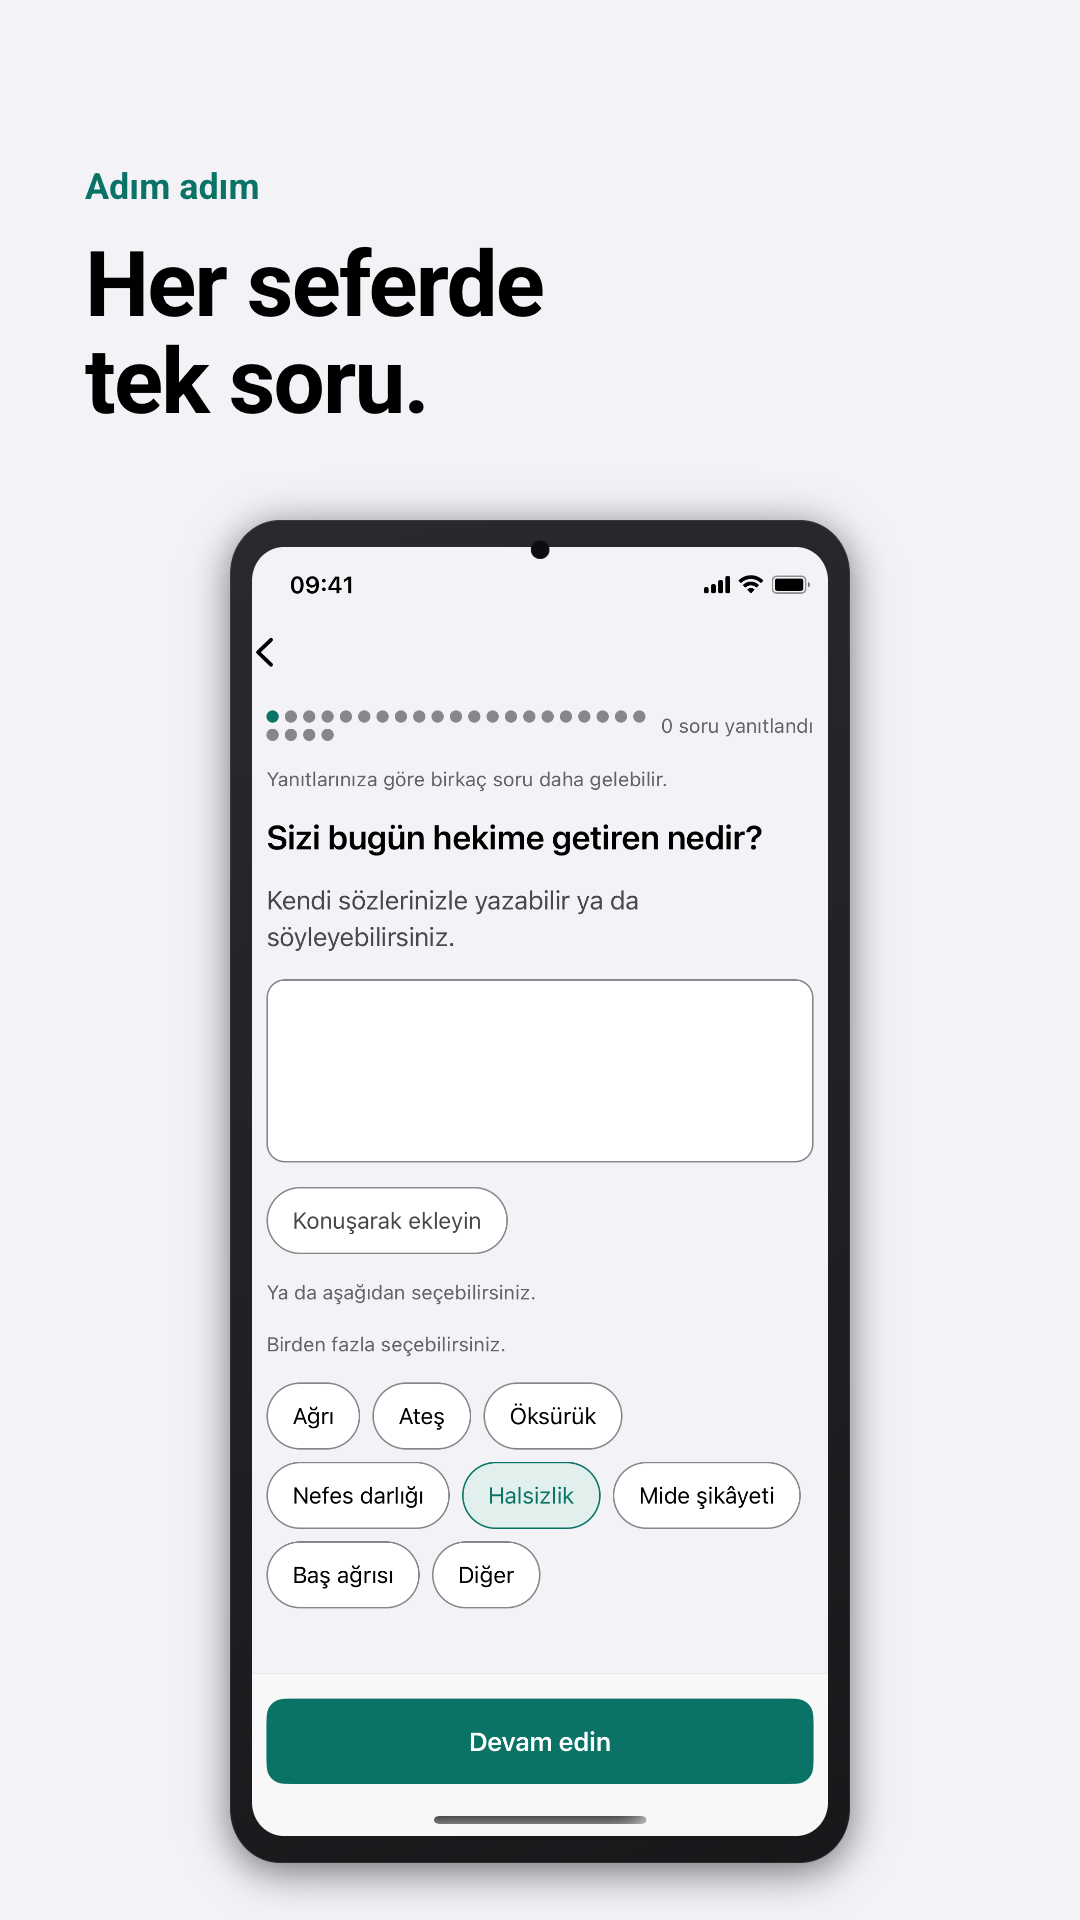
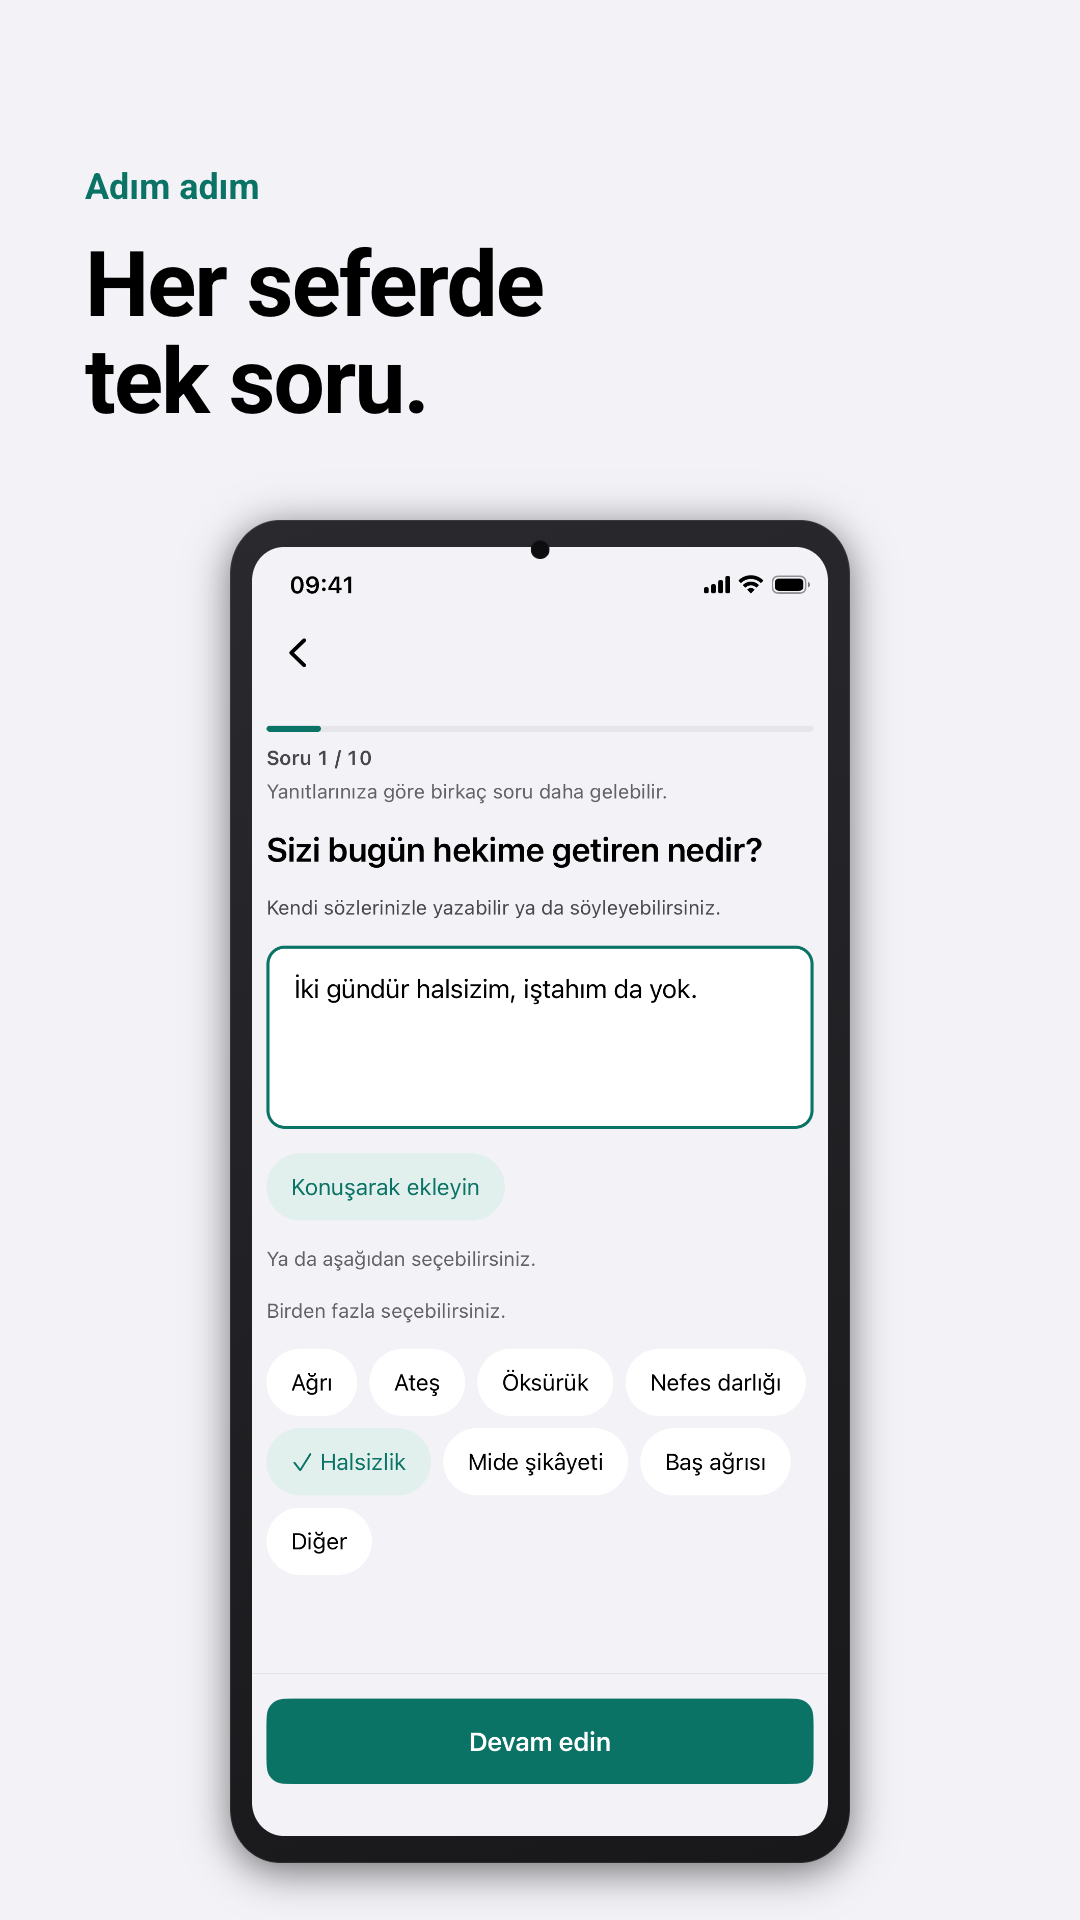
docs(store): INT-425 recapture frames 3 and 8 with the INT-433 question screen
Frame 3 now shows the redesigned question (thin bar, Soru N / M, filled field,
checked capsule chip, glass bars); frame 8 is scrolled clear of the tab rail.
Same editor build and copy; the six other frames re-export byte-identical.
Records the owner's approval of the Turkish store copy verbatim.

diff --git a/docs/design/store-screenshots.md b/docs/design/store-screenshots.md
@@ -15,12 +15,12 @@ One benefit per frame, in the order a patient meets them. Each headline is two s
 |---|---|---|---|---|
 | 1 | Bugün: the next visit and its preparation | Önvizit | Muayeneye hazır gidin. | Arrive at your visit ready. |
 | 2 | Karşılıklı konuşma: a spoken turn and its transcript | Sesle ya da yazarak | Anlatın, biz not alalım. | You talk, we take notes. |
-| 3 | Typed step: one question, chips, a progress row | Adım adım | Her seferde tek soru. | One question at a time. |
+| 3 | Typed step after the INT-433 redesign: the thin progress bar and "Soru 1 / 10", the patient's own words in the filled field, a checked capsule chip, glass bars | Adım adım | Her seferde tek soru. | One question at a time. |
 | 4 | Review: sections with "Paylaşılıyor" and "Düzenleyin" | Hekiminize gidecek not | Paylaşılanı siz seçin. | You choose what is shared. |
 | 5 | Review: earlier facts waiting for the patient's answer | Önceki kayıtlar | Eski bilgiler size sorulur. | Old details are checked with you. |
 | 6 | Visit: the note status ladder after sending | Not durumu | Notunuzun durumunu görün. | See where your note is. |
 | 7 | Share link: "Yalnızca bu ekranda" | Paylaşım bağlantısı | Hekiminize gösterin. | Show it to your doctor. |
-| 8 | Görünüm in dark mode, larger text | Görünüm | Yazı boyu size göre. | Text sized for you. |
+| 8 | Görünüm in dark mode, larger text: the full size ladder with the chosen step, clear of the tab rail | Görünüm | Yazı boyu size göre. | Text sized for you. |
 
 ## Why it looks like this
 
@@ -37,10 +37,19 @@ Only the synthetic dev account (`apps/mobile/src/lib/dev/accounts.ts`) and typed
 
 ## What the owner still has to do
 
-1. Approve or rewrite the headlines with legal (INT-146). Turkish is the store copy. To publish the English set too, add `"en"` to `locales` and export again.
+1. ~~Approve the Turkish headlines.~~ Done: the owner approved the Turkish store copy on 2 Oct 2026, recorded verbatim in docs/evidence/INT-425.md. INT-146's `approval:human-legal` label is not changed by that record. Turkish is the store copy. To publish the English set too, add `"en"` to `locales` and export again.
 2. **Android:** no emulator was available, so the Play set frames the iOS captures in an Android device. Before submitting to Play, replace `captures/` with Android emulator or device captures of the same eight screens and export again.
 3. Upload the PNGs to App Store Connect (the 6.9" set is enough, and Apple scales it down) and to the Play Console with the feature graphic.
 4. Voice frame: a text caret is visible in the composer. Replace the capture if you want it gone.
+
+## Recapture after INT-433 (3 Oct 2026)
+
+The owner found the question screen in frame 3 not native enough (the dot row, the outlined box and chips). INT-433 (#740) redesigned it, and that branch is merged here so the frame shows the shipped screen. Two captures were replaced:
+
+- **Frame 3:** the redesigned question screen, from the same flow and dev account, with a simulated-patient answer.
+- **Frame 8:** the INT-425 capture had the floating tab rail over the selected text-size row. The new capture is scrolled so the whole ladder and the chosen step sit clear of the rail.
+
+The headlines, eyebrows, grid, theme and the other six captures are unchanged. The export was re-run with the same editor build, pressing **Export bundle** headlessly. The six unchanged frames came out byte-identical at every size, and only frames 3 and 8 changed, in every iPhone size and the Play phone size.
 
 ## How to regenerate
 

diff --git a/docs/evidence/INT-425.md b/docs/evidence/INT-425.md
@@ -41,7 +41,22 @@ $ uv run pytest -q tests/store/test_store_screenshots.py tests/backlog tests/smo
 
 Gates on the staged tree: `bash scripts/ci/no_placeholders.sh`, `bash scripts/ci/claims_scan.sh --strict` over the store copy, `bash scripts/ci/phi_scan.sh` and `gitleaks`. Each reported OK. `ruff check` and `ruff format --check` are clean over the new Python. `build_editor.py` was re-run into an empty directory: it reproduces a template that typechecks (`tsc --noEmit`) and a project file byte-identical to the committed one. `make check` was not run as a whole on this laptop (Docker is absent, so check-integration is CI-only). The Python lanes this change touches ran green, and CI runs the rest.
 
+## Owner approval of the Turkish store copy
+
+Owner approval of the Turkish store copy, recorded verbatim from chat on 2 Oct 2026: "i approve the Turkish store tex[t]". This covers the Turkish headline and caption copy (INT-146 store text). The copy in `tools/gen_project.py` is unchanged by the recapture below.
+
+## Recapture with the INT-433 question screen (3 Oct 2026)
+
+- **Why:** frame 3 showed the question screen the owner rejected: a dot row, an outlined box and outlined chips. INT-433 (#740) redesigned that screen, and its branch is merged into this one so the frame is a real capture of the redesigned screen. Frame 8 had the floating tab rail over the selected text-size row, so it was recaptured with the ladder clear of the rail.
+- **How:**
+  - The captures come from the iPhone 16e simulator (iOS 26.1) running Expo Go with Metro serving the merged tree. The dev account and a typed simulated-patient answer were used. The status bar was set to 9:41 with a full battery. No audio was recorded.
+  - The export uses the INT-425 editor build (the template pinned at `8bd7520` with the `onvizit-clinical` patch), whose project file is byte-identical to `app-store-screenshots.json`. **Export bundle** was pressed headlessly for the iPhone deck and the Android deck.
+- **Result:**
+  - Frames 01, 02 and 04–07 came out byte-identical to the committed exports at every size.
+  - Only `03-device-bottom.png` and `08-device-bottom.png` changed, in all four iPhone sizes and at 1080×1920.
+  - The feature graphic is unchanged.
+
 ## Owner asks (not blockers to merge)
 
-- Legal sign-off of the store copy (INT-146, `approval:human-legal`).
+- Legal sign-off of the store copy (INT-146, `approval:human-legal`). The owner's approval of the Turkish copy is recorded above.
 - Android emulator or device captures to replace the iOS captures in the Play set before submitting to Play.

diff --git a/docs/PROGRESS.md b/docs/PROGRESS.md
@@ -3077,3 +3077,20 @@
 - Blocked on (human + one sentence + HUMAN_BLOCKERS id): none. Observed: the dark-mode back chevron is invisible on pushed screens (pre-existing, not in this scope).
 - Next: PR `INT-433: question screen redesign — native progress, filled inputs, capsule chips, Liquid Glass bars (Mobbin-referenced)` (Closes #739, Sec-Row mobile), left unmerged; merge after #725 and #728.
 - LOOP_STATUS: CONTINUE
+
+### 2026-10-03T00:50:00+03:00 · INT-425 · update (PR #738, not merged)
+- Goal: re-capture the store set with the INT-433 question screen (owner, 2 Oct 2026) and record the owner's approval of the Turkish store copy.
+- Plan:
+  - INT-433 (#740) is merged into this branch.
+  - Frames 3 (question) and 8 (Görünüm, rail clear) are recaptured on the iPhone 16e simulator.
+  - The export is re-run with the pinned editor build.
+- Tests added (with the near-miss negative for any safety rule): none new. The `tests/store` guard reran green; the six unchanged frames re-export byte-identical.
+- Result (`make check` / `make safety` / `make security` summary):
+  - `tests/store`, `tests/backlog` and smoke: 78 passed;
+  - `claims_scan --strict` OK;
+  - `no_placeholders` OK.
+- Invariants touched and still passing: 20, no claims. The copy is unchanged.
+- Decisions / ADRs / `00_STATE.md` rows: the owner's approval of the Turkish store copy is recorded verbatim in docs/evidence/INT-425.md.
+- Blocked on (human + one sentence + HUMAN_BLOCKERS id): INT-146 legal sign-off is unchanged.
+- Next: PR #738 left unmerged; merge after #725, #728 and #740.
+- LOOP_STATUS: CONTINUE
